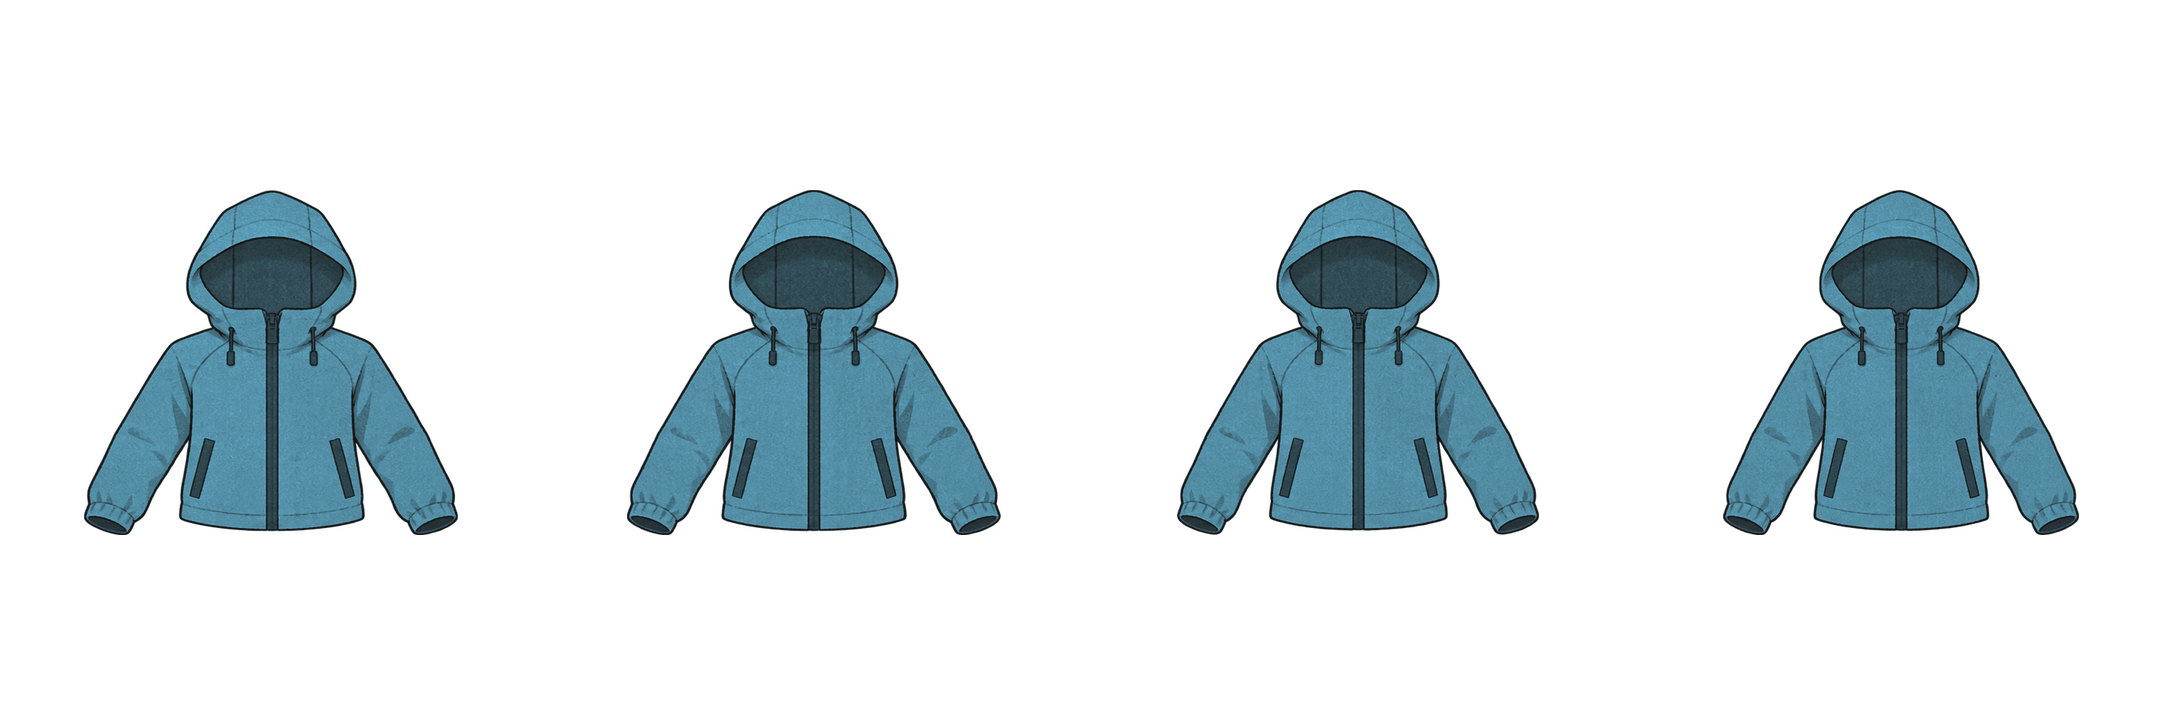
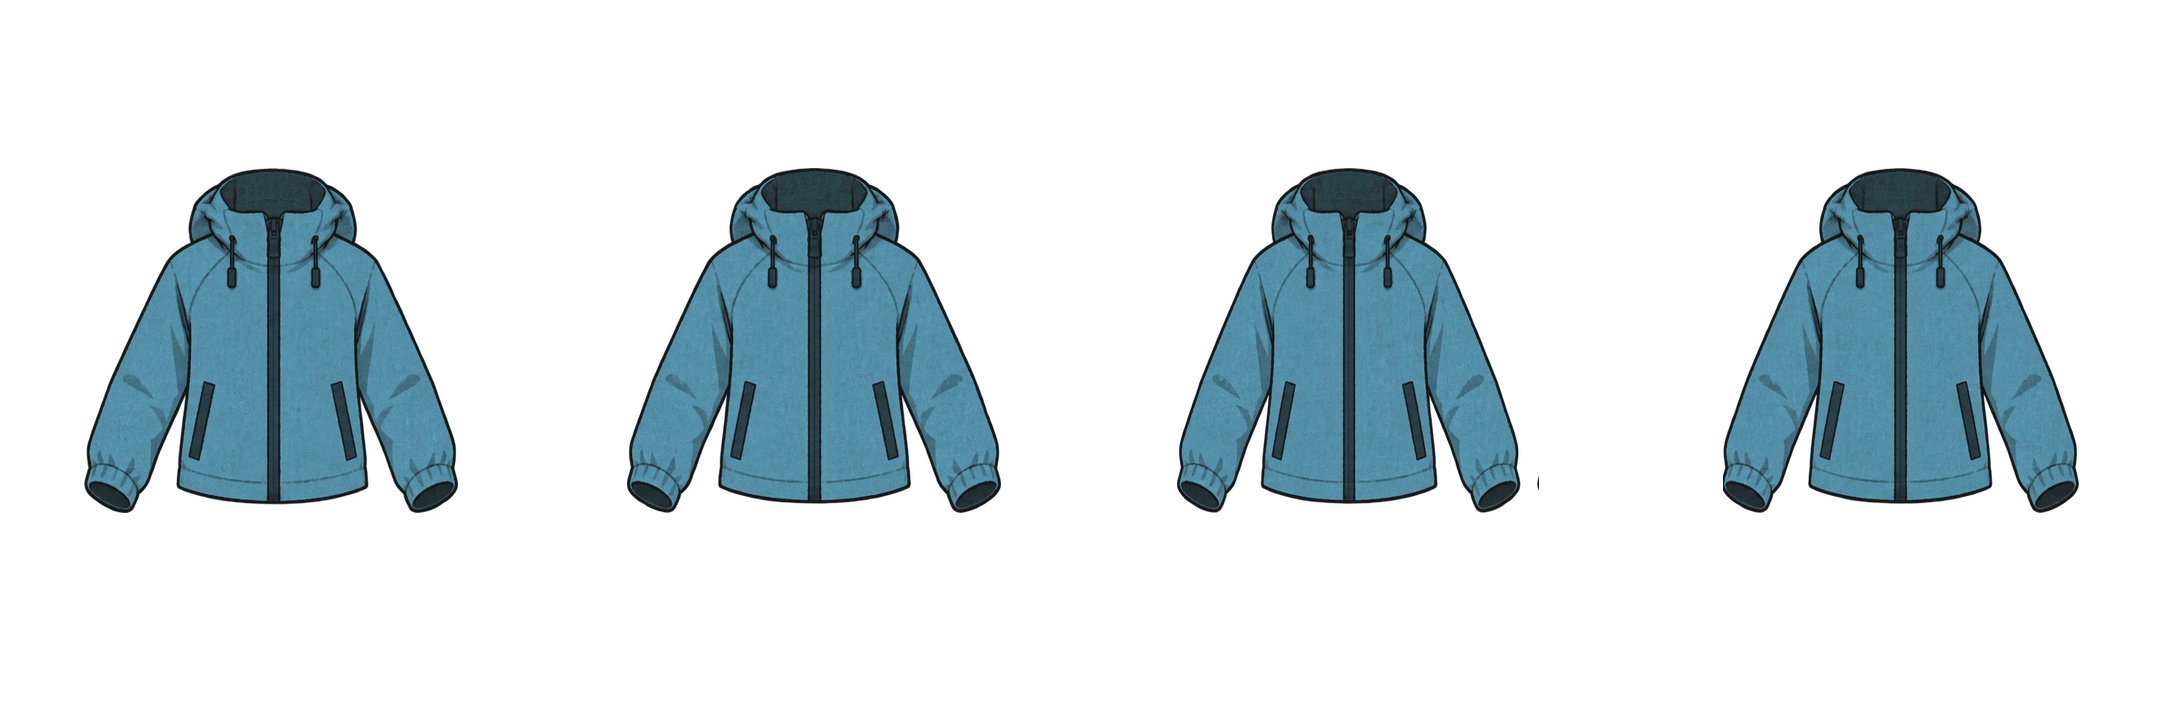
fix: restack paper doll outerwear

diff --git a/src/home.js b/src/home.js
@@ -143,7 +143,7 @@ function wearableLayer(file,cls){return `<span class="character-wear ${cls} pg-$
 function loadoutItem(slot){const id=H.loadout[slot];return id&&H.owned.has(id)?ITEM_BY[id]:null}
 function brandedLayer(kind,it,cls){return it?wearableLayer(`wear-${kind}-${it.brand||'S'}-v2.png`,cls):''}
 function headwearLayer(){const it=loadoutItem('testa');if(!it)return '';const base=itemBase(it);return wearableLayer(base==='cappelloLana'?'wear-hat-wool-v2.png':base==='rete'?'wear-head-net-v2.png':'wear-hat-sun-v2.png','wear-head')}
-function characterAvatar(){const pack=loadoutItem('zaino'),shoe=loadoutItem('scarpe'),shell=loadoutItem('guscio'),pile=loadoutItem('pile'),gaiters=loadoutItem('ghette'),gloves=loadoutItem('guanti'),poles=loadoutItem('bastoncini'),packKind=pack&&itemBase(pack)==='zainoUL'?'pack-ul':'pack-classic',shoeBase=shoe&&itemBase(shoe),shoeKind=shoeBase==='scarponi'?'shoe-boot':shoeBase==='trail'?'shoe-trail':'shoe-low';return `<div class="character-avatar">${brandedLayer('poles',poles,'wear-poles')}<span class="character-front pg-${esc(H.pg)}"></span>${shell?'':brandedLayer('pile',pile,'wear-pile')}${brandedLayer('shell',shell,'wear-shell')}${brandedLayer(packKind,pack,'wear-pack')}${gaiters?'':brandedLayer(shoeKind,shoe,'wear-shoes')}${brandedLayer('gaiters',gaiters,'wear-gaiters')}${gloves?wearableLayer('wear-gloves-v2.png','wear-gloves'):''}${headwearLayer()}</div>`}
+function characterAvatar(){const pack=loadoutItem('zaino'),shoe=loadoutItem('scarpe'),shell=loadoutItem('guscio'),pile=loadoutItem('pile'),gaiters=loadoutItem('ghette'),gloves=loadoutItem('guanti'),poles=loadoutItem('bastoncini'),packKind=pack&&itemBase(pack)==='zainoUL'?'pack-ul':'pack-classic',shoeBase=shoe&&itemBase(shoe),shoeKind=shoeBase==='scarponi'?'shoe-boot':shoeBase==='trail'?'shoe-trail':'shoe-low';return `<div class="character-avatar">${brandedLayer('poles',poles,'wear-poles')}<span class="character-front pg-${esc(H.pg)}"></span>${brandedLayer('pile',pile,'wear-pile')}${brandedLayer('shell',shell,'wear-shell')}${brandedLayer(packKind,pack,'wear-pack')}${gaiters?'':brandedLayer(shoeKind,shoe,'wear-shoes')}${brandedLayer('gaiters',gaiters,'wear-gaiters')}${gloves?wearableLayer('wear-gloves-v2.png','wear-gloves'):''}${headwearLayer()}</div>`}
 function characterScreen(){eqInit();initLoadout();const tab=H.charTab||'equip';if(tab==='abilita')return characterSkills();const selected=H.inspectItem&&H.owned.has(H.inspectItem)?H.inspectItem:(Object.values(H.loadout)[0]||[...H.owned][0]);H.inspectItem=selected;
  const primary=GEAR_SLOTS.slice(0,12).map(([slot,label])=>{const id=H.loadout[slot],it=ITEM_BY[id];return `<button class="equipment-slot ${id?'filled':''}" onclick="${id?`inspectGear('${id}')`:`document.querySelector('.wardrobe-card')?.focus()`}"><span>${id?gearSvg(id,42):'＋'}</span><small>${esc(label)}</small><b>${it?esc(it.model||it.name):'Vuoto'}</b></button>`}).join('');
  const wardrobe=[...H.owned].map(id=>ITEM_BY[id]).filter(Boolean).sort((a,b)=>itemSlot(a).localeCompare(itemSlot(b))||itPrice(b.id)-itPrice(a.id));

diff --git a/styles.css b/styles.css
@@ -335,6 +335,6 @@ details summary{list-style:none}
 .shop-page{padding-top:14px}.shop-back{position:relative;z-index:2;display:flex;justify-content:center;width:100%;min-height:46px;margin:0 0 14px;padding:10px 16px;border:1px solid #0d292e;border-radius:8px;background:linear-gradient(#21464b,#112f34);box-shadow:0 4px 9px rgba(43,29,19,.2);color:#fff3d9;font-size:14px}.shop-back:first-letter{color:#e0b557;font-size:25px}.shop-categories{display:grid;grid-template-columns:repeat(3,1fr);gap:7px;margin:0 0 15px;padding:0 0 13px;overflow:visible}.shop-categories button{width:100%;padding:8px 5px;white-space:normal}.shop-shelf{display:grid;grid-template-columns:1fr 1fr;gap:10px;margin:0 0 14px;padding:3px 0 8px;overflow:visible;scroll-snap-type:none}.shop-card{width:100%;min-width:0;min-height:194px}.shop-card-art{height:112px}
 .character-center{left:50%;top:18px;width:clamp(150px,34%,230px);height:auto;transform:translateX(-50%)}.character-avatar{position:relative;width:100%;aspect-ratio:3/4;margin:0 auto;isolation:isolate;filter:drop-shadow(0 12px 9px rgba(50,37,26,.16))}.character-front,.character-wear{position:absolute;inset:0;display:block;width:100%;height:100%;background-repeat:no-repeat;background-size:400% 100%;pointer-events:none}.character-front{z-index:1;background-image:url('assets/art/character-front-base-v2.png');filter:none}.character-wear.pg-marco{background-position:0 0}.character-wear.pg-davide{background-position:33.333% 0}.character-wear.pg-sara{background-position:66.666% 0}.character-wear.pg-elena{background-position:100% 0}.wear-torso{z-index:2}.wear-pack{z-index:3}.wear-shoes,.wear-gaiters,.wear-gloves,.wear-head{z-index:4}.wear-poles{z-index:5}.character-center h2{margin:2px 0 0}.stage-one-diorama>.stage-isometric-atlas{display:block;background-repeat:no-repeat;background-size:auto 200%;background-color:#102e34}
 .character-front{background-image:url('assets/art/character-front-swimsuit-v3.png')}
-.wear-pack{z-index:0}.wear-pile{z-index:2}.wear-shell{z-index:3}.wear-shoes{z-index:5}.wear-gaiters{z-index:6}.wear-gloves{z-index:7}.wear-head{z-index:8}.wear-poles{display:none}
+.wear-pack{z-index:0}.wear-shoes,.wear-gaiters{z-index:2}.wear-pile{z-index:3}.wear-shell{z-index:4}.wear-gloves{z-index:5}.wear-head{z-index:6}.wear-poles{display:none}
 @media(max-width:430px){.shop-categories{grid-template-columns:1fr 1fr}.character-center{width:clamp(142px,38%,165px)}.equipment-slots{column-gap:39%}.character-board{min-height:420px}.character-center h2{font-size:21px}.character-center p{font-size:9px}}
 @media(min-aspect-ratio:1/1){.stage-one-diorama>.stage-isometric-atlas{background-size:300% auto}}

diff --git a/src/config.js b/src/config.js
@@ -1,5 +1,5 @@
 globalThis.GAME_CONFIG=Object.freeze({
  name:'Blisterborn',
- version:'0.5.5',
+ version:'0.5.6',
  storageKey:'blisterlands'
 });

diff --git a/scripts/build-character-layers.py b/scripts/build-character-layers.py
@@ -66,7 +66,11 @@ def targets(base: Image.Image, kind: str):
         torso = region_box(cell, 180, 530)
         feet = region_box(cell, 590, 724)
         legs = region_box(cell, 455, 724)
-        if kind in {"shell", "pile"}:
+        if kind == "shell":
+            # Il cappuccio abbassato resta dietro al collo: il guscio deve
+            # partire piu in alto del pile, senza scivolare sul bacino.
+            box = (max(0, torso[0] - 8), 168, min(cell_width, torso[2] + 8), 513)
+        elif kind == "pile":
             box = (max(0, torso[0] - 8), 190, min(cell_width, torso[2] + 8), 535)
         elif kind.startswith("pack-"):
             box = (max(0, torso[0] + 22), 185, min(cell_width, torso[2] - 22), 520)
@@ -116,7 +120,9 @@ base.save(ART / "character-front-swimsuit-v3.png", optimize=True)
 for kind, filename in MASTERS.items():
     master = fit_cells(normalized(ART / filename), targets(base, kind))
     for brand, color in BRANDS.items():
-        tint(master, color).save(ART / f"wear-{kind}-{brand}-v2.png", optimize=True)
+        # StormShell riprende esattamente il giallo ocra dell'icona inventario.
+        rendered = master if kind == "shell" and brand == "Sh" else tint(master, color)
+        rendered.save(ART / f"wear-{kind}-{brand}-v2.png", optimize=True)
 
 for source, target in {
     "wear-gloves-v1.png": "wear-gloves-v2.png",

diff --git a/README.md b/README.md
@@ -28,13 +28,13 @@ GitHub Pages può pubblicare direttamente la radice del branch `main`. Il servic
 
 ## Versione
 
-Prototipo `0.5.5`.
+Prototipo `0.5.6`.
 
 Le tappe 2–8 usano 42 panorami isometrici autonomi in alta risoluzione (1254×1254), senza ritagli da atlanti condivisi.
 
-Gli indicatori di ora, energia, morale e distanza durante il cammino mostrano stato, colore e barra dinamici. Il paperdoll evita gli strati incompatibili: guscio/pile e ghette/scarpe non vengono più disegnati contemporaneamente.
+Gli indicatori di ora, energia, morale e distanza durante il cammino mostrano stato, colore e barra dinamici. Nel paperdoll le ghette sostituiscono le scarpe, mentre pile e guscio possono essere indossati insieme nell'ordine anatomico corretto.
 
-Il paperdoll usa ora l'asse della sagoma opaca reale: corpo, guscio, parte bassa, guanti e copricapo condividono lo stesso centro in tutti e quattro i personaggi. Zaino e bastoncini non attraversano più la vista frontale.
+Il paperdoll usa ora l'asse della sagoma opaca reale: corpo, parte bassa, pile, guscio e guanti condividono lo stesso centro in tutti e quattro i personaggi. Il guscio StormShell è giallo ocra come l'icona dell'inventario e ha il cappuccio abbassato per non interferire con i copricapi. Zaino e bastoncini non attraversano più la vista frontale.
 
 Il personaggio conserva il protagonista scelto e usa una vera animazione alternativa quando porta i bastoncini, impugnati e sincronizzati col passo. I colori di vestiti e zaino restano parte del disegno del protagonista; i quattro marchi conservano gli emblemi raster nel negozio e nel catalogo. Le otto tratte dispongono di 48 POI nominati e di 48 sfondi distinti; arrivi serali, mattine dopo il rifugio o la tenda e traguardo di Njalla hanno scene dedicate. Ogni tappa ha inoltre una mappa piegata semplificata con una curva incorporata nel raster e coerente con i sei landmark; l'avanzamento colora la stessa curva. Il taccuino ha quattro livelli di usura raster per tappa. Ventisette paesaggi specifici restano disponibili per futuri sfondi legati agli imprevisti.
 
